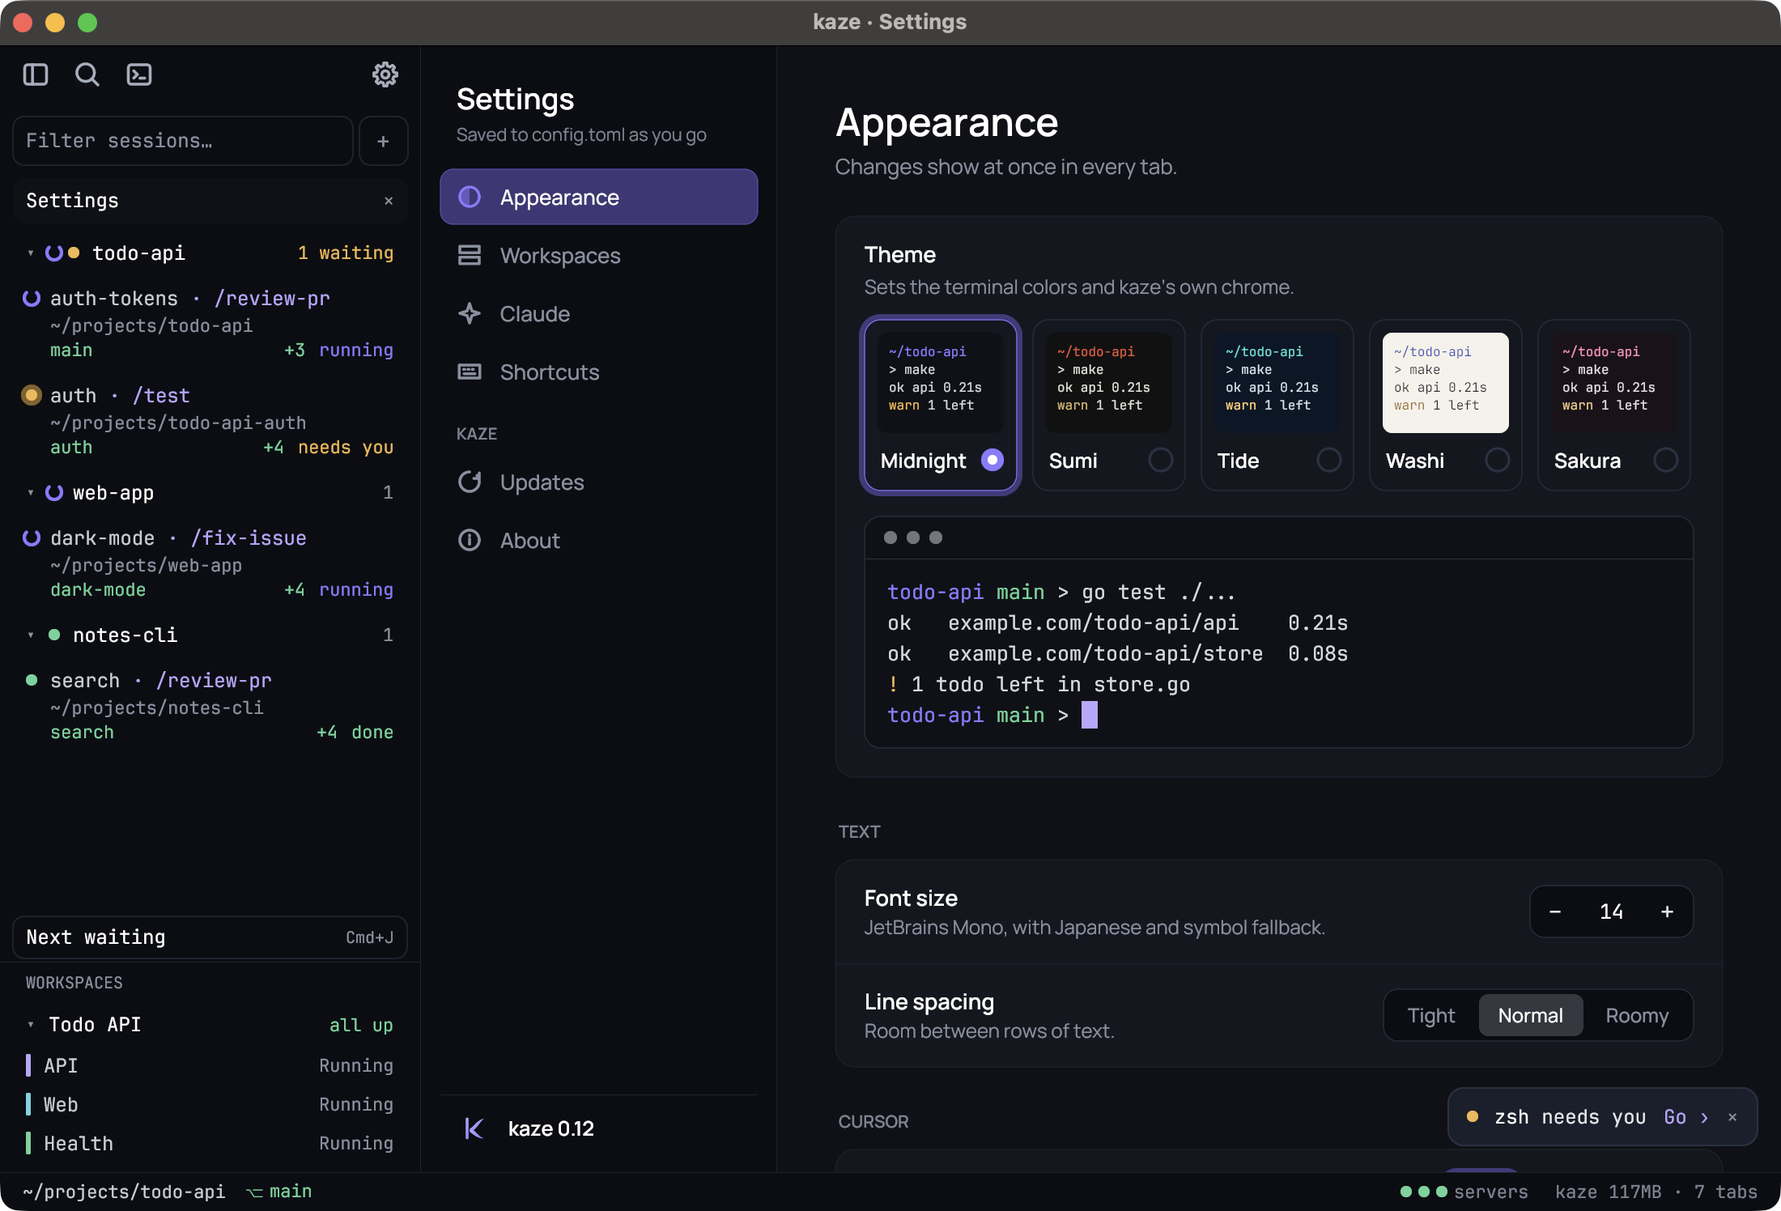
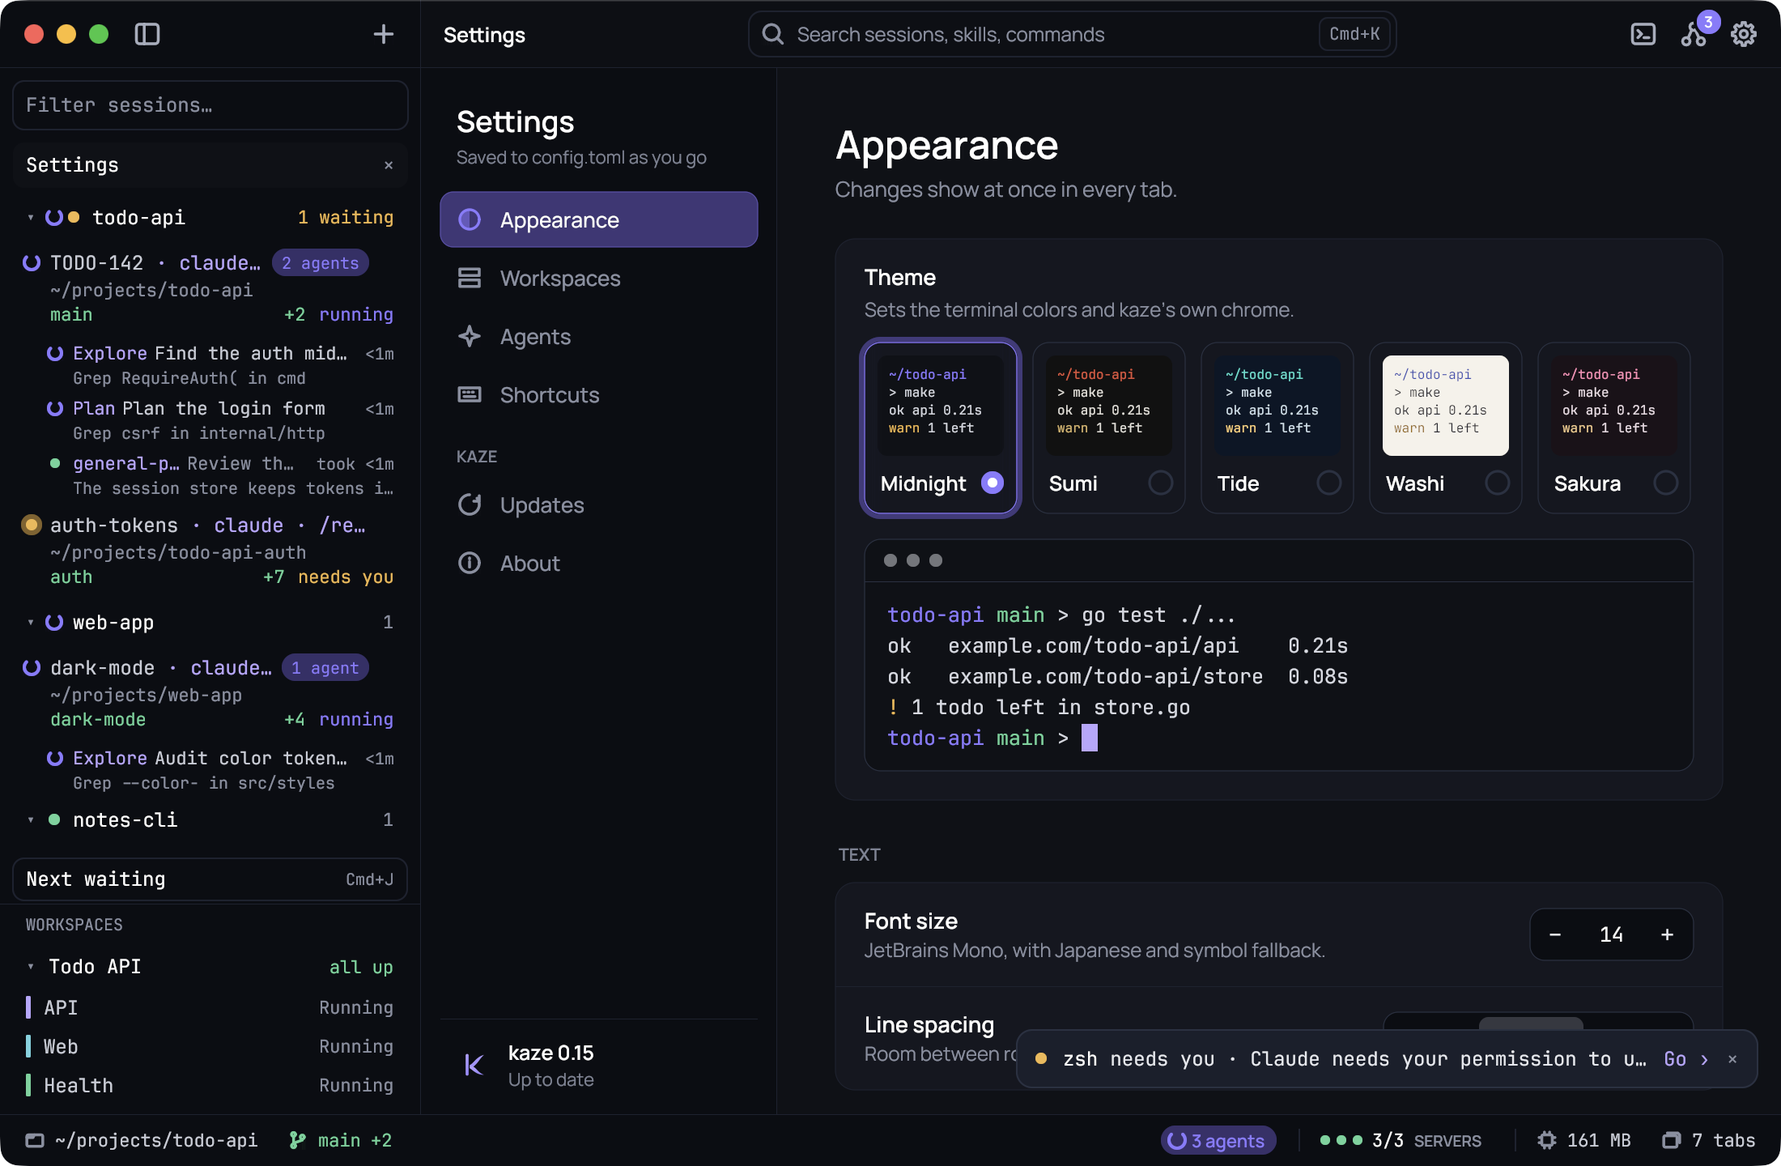
docs(site): Retake every capture with the new title bar and status bar

diff --git a/docs/site-assets/site.css b/docs/site-assets/site.css
@@ -1,7 +1,7 @@
 @font-face{font-family:Manrope;src:url(Manrope.ttf) format('truetype');font-weight:200 800;font-display:swap}
 @font-face{font-family:JetBrains;src:url(JetBrainsMono-Regular.ttf) format('truetype');font-display:swap}
 :root{color-scheme:dark;--bg:#0d0f14;--surface:#101014;--text:#f0eff4;--muted:#95949f;--line:#26262d;--accent:#c7b7f7}
-*{box-sizing:border-box}html{scroll-behavior:smooth;scroll-padding-top:90px}body{margin:0;background:var(--bg);color:var(--text);font:15px/1.7 Manrope,sans-serif}a{color:inherit;text-decoration:none}button{font:inherit;cursor:pointer}a,button{-webkit-tap-highlight-color:transparent}a:focus-visible,button:focus-visible{outline:2px solid var(--accent);outline-offset:5px}a:hover{color:#fff}.wrap{width:min(1160px,calc(100% - 64px));margin-inline:auto}.skip-link{position:fixed;z-index:10;top:8px;left:8px;padding:10px;background:var(--accent);color:#111;transform:translateY(-150%)}.skip-link:focus{transform:none}.site-header{border-bottom:1px solid var(--line)}.header-inner{height:76px;display:flex;align-items:center;justify-content:space-between}.brand{display:flex;gap:9px;align-items:center;font-size:25px;font-weight:650;letter-spacing:-1.6px}.brand img{display:block}.site-header .brand{flex-shrink:0}.brand-lockup{display:flex;flex-direction:column;gap:4px;line-height:1}.brand-byline{font:9px/1 JetBrains,monospace;font-weight:400;letter-spacing:.04em;color:var(--muted)}nav{display:flex;align-items:center;gap:32px;color:#b4b2bd;font-size:12px}.source-link{display:inline-flex;align-items:center;gap:8px;border:1px solid #34333e;border-radius:6px;padding:7px 13px}.github-icon{display:block;flex-shrink:0}.hero{text-align:center;padding-top:64px}.hero-logo{display:block;width:min(340px,70vw);height:auto;margin:0 auto 34px}h1,h2,h3,p{margin:0}h1{font-size:clamp(48px,6.1vw,82px);font-weight:550;line-height:1.1;letter-spacing:-4.5px}h1 span{color:#a2a0ad}.hero-copy{color:var(--muted);font-size:17px;line-height:1.8;margin:27px auto 30px;max-width:660px}.hero-actions{display:flex;justify-content:center;gap:12px}.button{display:inline-flex;align-items:center;justify-content:center;gap:24px;padding:12px 22px;border-radius:7px;font-size:13px;font-weight:650;transition:background .18s,border-color .18s}.primary{background:#e0d8f8;color:#17131f;border:1px solid #e0d8f8}.primary:hover{background:#eee8ff;color:#17131f}.secondary{background:#151419;border:1px solid #34323e;color:#d4d0de}.secondary:hover{background:#201e27;border-color:#575062}.platform-note{font-size:10px;color:#777481;margin-top:17px}.platform-note>span{margin:0 13px;color:#3f3c48}.platform-note a{text-decoration:underline;text-underline-offset:3px;color:#aaa4b7}.product{margin:64px 0 0;text-align:left}.product-caption{display:flex;justify-content:space-between;align-items:center;font-size:10px;color:#8e899b;margin:0 3px 12px}.product-caption span:first-child{color:#bdb7ca}.screenshot{aspect-ratio:2200/1496;overflow:hidden;background:#0f1117;border:1px solid #3b3945;border-radius:10px;box-shadow:0 20px 60px #0004}.screenshot img{width:100%;height:auto;display:block}figcaption{font-size:10px;color:#73707d;margin:13px 3px 0}h2{font-size:clamp(32px,3.6vw,47px);line-height:1.17;letter-spacing:-1.9px;font-weight:550}h2 span{color:#8d899a}.workspace-section{padding-top:125px}.section-intro{text-align:center}.section-intro p{color:var(--muted);font-size:14px;line-height:1.9;margin-top:22px}.workspace-example{margin-top:42px;border:1px solid var(--line);border-radius:10px;background:var(--surface);overflow:hidden}.example-heading{display:flex;justify-content:space-between;padding:18px 24px;border-bottom:1px solid var(--line);color:#d5d0df;font-size:12px}.mono{font-family:JetBrains,monospace;font-size:10px;color:#9890a7}.mono>span{color:#494252;margin:0 10px}.recipe{list-style:none;padding:0;margin:0}.recipe li{display:grid;grid-template-columns:32px 1fr 1.35fr 140px;gap:22px;align-items:center;padding:21px 24px;border-bottom:1px solid #212027}.recipe-index{font:10px JetBrains,monospace;color:#686171}.recipe h3{font-size:14px;font-weight:550}.folder{font:10px/1.8 JetBrains,monospace;color:#847c92}.recipe code{font:11px/1.7 JetBrains,monospace;color:#c2b4d8}.wait{font-size:10px;color:#8d849c}.example-foot{padding:16px 24px;color:#938b9f;font-size:11px}.details{display:grid;grid-template-columns:repeat(4,minmax(0,1fr));gap:0;padding:80px 0 90px}.details article{padding:0 30px;border-right:1px solid var(--line)}.details article:first-child{padding-left:0}.details article:last-child{border:0;padding-right:0}.feature-symbol{display:block;color:var(--accent);font-size:23px;margin-bottom:19px}.details h3{font-size:18px;letter-spacing:-.5px;font-weight:550;margin-bottom:13px}.details p{color:var(--muted);font-size:13px;line-height:1.9}.details a{display:inline-block;margin-top:21px;font-size:11px;color:#c4bad5}.engineering{display:flex;gap:60px;justify-content:space-between;border-top:1px solid var(--line);border-bottom:1px solid var(--line);padding-block:45px}.engineering h2{font-size:27px;letter-spacing:-.8px}.engineering p{font-size:13px;color:var(--muted);max-width:590px;margin-top:14px}.engineering-facts{display:flex;gap:35px;align-items:center;flex-shrink:0}.engineering-facts span{font-size:10px;color:#817a8b}.engineering-facts b{display:block;font-size:13px;color:#d1c8de;font-weight:550;margin-bottom:6px}.install{padding:110px 0;display:grid;grid-template-columns:1fr 1.25fr;gap:90px}.install-intro>p{font-size:13px;color:var(--muted);margin-top:23px;line-height:1.9;max-width:360px}.install-intro .release-note{font-size:11px;color:#81788f;margin-top:18px}.inline-link{display:inline-block;font-size:11px;color:#c5b5da;margin-top:18px}.installer{min-width:0;border:1px solid #302a3b;background:#101014;border-radius:9px;overflow:hidden;align-self:start}.platform-tabs{display:flex;border-bottom:1px solid var(--line);padding:0 20px;gap:25px}.platform-tabs button{background:none;border:0;border-bottom:2px solid transparent;color:#82788f;font-size:12px;padding:16px 2px}.platform-tabs button[aria-selected=true]{color:#ded4ec;border-bottom-color:var(--accent)}.command-heading{display:flex;justify-content:space-between;align-items:center;padding:20px 20px 4px;font-size:10px;color:#a89bb8}.command-heading button{font-size:9px;background:#1c1823;border:1px solid #38303f;color:#d3bde9;padding:4px 9px;border-radius:4px}.command-heading button:hover{background:#302638}pre{margin:0;padding:12px 20px 20px;overflow:auto;font:10px/1.9 JetBrains,monospace;color:#d0c3df}.clone-block{border-bottom:1px solid #25212d}.installer-tip{padding:0 20px 20px;font-size:10px;color:#90829f}kbd{font:10px JetBrains,monospace;border:1px solid #393140;border-radius:3px;padding:2px 5px;color:#c9b8d8}.build-docs{display:block;padding:14px 20px;border-top:1px solid var(--line);color:#a99ab8;font-size:10px}.build-docs span{float:right}footer{border-top:1px solid var(--line);display:flex;align-items:center;justify-content:space-between;padding:28px 0 35px}footer p{font-size:11px;color:#736c7e}footer>div{display:flex;gap:24px;color:#9e93ac;font-size:10px}footer .brand{font-size:22px}.sr-only{position:absolute;width:1px;height:1px;overflow:hidden;clip-path:inset(50%)}[hidden]{display:none!important}
+*{box-sizing:border-box}html{scroll-behavior:smooth;scroll-padding-top:90px}body{margin:0;background:var(--bg);color:var(--text);font:15px/1.7 Manrope,sans-serif}a{color:inherit;text-decoration:none}button{font:inherit;cursor:pointer}a,button{-webkit-tap-highlight-color:transparent}a:focus-visible,button:focus-visible{outline:2px solid var(--accent);outline-offset:5px}a:hover{color:#fff}.wrap{width:min(1160px,calc(100% - 64px));margin-inline:auto}.skip-link{position:fixed;z-index:10;top:8px;left:8px;padding:10px;background:var(--accent);color:#111;transform:translateY(-150%)}.skip-link:focus{transform:none}.site-header{border-bottom:1px solid var(--line)}.header-inner{height:76px;display:flex;align-items:center;justify-content:space-between}.brand{display:flex;gap:9px;align-items:center;font-size:25px;font-weight:650;letter-spacing:-1.6px}.brand img{display:block}.site-header .brand{flex-shrink:0}.brand-lockup{display:flex;flex-direction:column;gap:4px;line-height:1}.brand-byline{font:9px/1 JetBrains,monospace;font-weight:400;letter-spacing:.04em;color:var(--muted)}nav{display:flex;align-items:center;gap:32px;color:#b4b2bd;font-size:12px}.source-link{display:inline-flex;align-items:center;gap:8px;border:1px solid #34333e;border-radius:6px;padding:7px 13px}.github-icon{display:block;flex-shrink:0}.hero{text-align:center;padding-top:64px}.hero-logo{display:block;width:min(340px,70vw);height:auto;margin:0 auto 34px}h1,h2,h3,p{margin:0}h1{font-size:clamp(48px,6.1vw,82px);font-weight:550;line-height:1.1;letter-spacing:-4.5px}h1 span{color:#a2a0ad}.hero-copy{color:var(--muted);font-size:17px;line-height:1.8;margin:27px auto 30px;max-width:660px}.hero-actions{display:flex;justify-content:center;gap:12px}.button{display:inline-flex;align-items:center;justify-content:center;gap:24px;padding:12px 22px;border-radius:7px;font-size:13px;font-weight:650;transition:background .18s,border-color .18s}.primary{background:#e0d8f8;color:#17131f;border:1px solid #e0d8f8}.primary:hover{background:#eee8ff;color:#17131f}.secondary{background:#151419;border:1px solid #34323e;color:#d4d0de}.secondary:hover{background:#201e27;border-color:#575062}.platform-note{font-size:10px;color:#777481;margin-top:17px}.platform-note>span{margin:0 13px;color:#3f3c48}.platform-note a{text-decoration:underline;text-underline-offset:3px;color:#aaa4b7}.product{margin:64px 0 0;text-align:left}.product-caption{display:flex;justify-content:space-between;align-items:center;font-size:10px;color:#8e899b;margin:0 3px 12px}.product-caption span:first-child{color:#bdb7ca}.screenshot{aspect-ratio:2200/1440;overflow:hidden;background:#0f1117;border:1px solid #3b3945;border-radius:10px;box-shadow:0 20px 60px #0004}.screenshot img{width:100%;height:auto;display:block}figcaption{font-size:10px;color:#73707d;margin:13px 3px 0}h2{font-size:clamp(32px,3.6vw,47px);line-height:1.17;letter-spacing:-1.9px;font-weight:550}h2 span{color:#8d899a}.workspace-section{padding-top:125px}.section-intro{text-align:center}.section-intro p{color:var(--muted);font-size:14px;line-height:1.9;margin-top:22px}.workspace-example{margin-top:42px;border:1px solid var(--line);border-radius:10px;background:var(--surface);overflow:hidden}.example-heading{display:flex;justify-content:space-between;padding:18px 24px;border-bottom:1px solid var(--line);color:#d5d0df;font-size:12px}.mono{font-family:JetBrains,monospace;font-size:10px;color:#9890a7}.mono>span{color:#494252;margin:0 10px}.recipe{list-style:none;padding:0;margin:0}.recipe li{display:grid;grid-template-columns:32px 1fr 1.35fr 140px;gap:22px;align-items:center;padding:21px 24px;border-bottom:1px solid #212027}.recipe-index{font:10px JetBrains,monospace;color:#686171}.recipe h3{font-size:14px;font-weight:550}.folder{font:10px/1.8 JetBrains,monospace;color:#847c92}.recipe code{font:11px/1.7 JetBrains,monospace;color:#c2b4d8}.wait{font-size:10px;color:#8d849c}.example-foot{padding:16px 24px;color:#938b9f;font-size:11px}.details{display:grid;grid-template-columns:repeat(4,minmax(0,1fr));gap:0;padding:80px 0 90px}.details article{padding:0 30px;border-right:1px solid var(--line)}.details article:first-child{padding-left:0}.details article:last-child{border:0;padding-right:0}.feature-symbol{display:block;color:var(--accent);font-size:23px;margin-bottom:19px}.details h3{font-size:18px;letter-spacing:-.5px;font-weight:550;margin-bottom:13px}.details p{color:var(--muted);font-size:13px;line-height:1.9}.details a{display:inline-block;margin-top:21px;font-size:11px;color:#c4bad5}.engineering{display:flex;gap:60px;justify-content:space-between;border-top:1px solid var(--line);border-bottom:1px solid var(--line);padding-block:45px}.engineering h2{font-size:27px;letter-spacing:-.8px}.engineering p{font-size:13px;color:var(--muted);max-width:590px;margin-top:14px}.engineering-facts{display:flex;gap:35px;align-items:center;flex-shrink:0}.engineering-facts span{font-size:10px;color:#817a8b}.engineering-facts b{display:block;font-size:13px;color:#d1c8de;font-weight:550;margin-bottom:6px}.install{padding:110px 0;display:grid;grid-template-columns:1fr 1.25fr;gap:90px}.install-intro>p{font-size:13px;color:var(--muted);margin-top:23px;line-height:1.9;max-width:360px}.install-intro .release-note{font-size:11px;color:#81788f;margin-top:18px}.inline-link{display:inline-block;font-size:11px;color:#c5b5da;margin-top:18px}.installer{min-width:0;border:1px solid #302a3b;background:#101014;border-radius:9px;overflow:hidden;align-self:start}.platform-tabs{display:flex;border-bottom:1px solid var(--line);padding:0 20px;gap:25px}.platform-tabs button{background:none;border:0;border-bottom:2px solid transparent;color:#82788f;font-size:12px;padding:16px 2px}.platform-tabs button[aria-selected=true]{color:#ded4ec;border-bottom-color:var(--accent)}.command-heading{display:flex;justify-content:space-between;align-items:center;padding:20px 20px 4px;font-size:10px;color:#a89bb8}.command-heading button{font-size:9px;background:#1c1823;border:1px solid #38303f;color:#d3bde9;padding:4px 9px;border-radius:4px}.command-heading button:hover{background:#302638}pre{margin:0;padding:12px 20px 20px;overflow:auto;font:10px/1.9 JetBrains,monospace;color:#d0c3df}.clone-block{border-bottom:1px solid #25212d}.installer-tip{padding:0 20px 20px;font-size:10px;color:#90829f}kbd{font:10px JetBrains,monospace;border:1px solid #393140;border-radius:3px;padding:2px 5px;color:#c9b8d8}.build-docs{display:block;padding:14px 20px;border-top:1px solid var(--line);color:#a99ab8;font-size:10px}.build-docs span{float:right}footer{border-top:1px solid var(--line);display:flex;align-items:center;justify-content:space-between;padding:28px 0 35px}footer p{font-size:11px;color:#736c7e}footer>div{display:flex;gap:24px;color:#9e93ac;font-size:10px}footer .brand{font-size:22px}.sr-only{position:absolute;width:1px;height:1px;overflow:hidden;clip-path:inset(50%)}[hidden]{display:none!important}
 @media(min-width:1500px){.hero{padding-top:110px}}
 @media(max-width:1000px){.engineering{display:block}.engineering-facts{margin-top:28px}.install{gap:40px}.recipe li{gap:14px;grid-template-columns:25px 1fr 1.3fr 120px}.details{grid-template-columns:repeat(2,minmax(0,1fr));row-gap:40px}.details article{padding-inline:20px}.details article:nth-child(odd){padding-left:0}.details article:nth-child(2n){border:0;padding-right:0}h1{letter-spacing:-3px}}
 @media(max-width:680px){.wrap{width:calc(100% - 36px)}.header-inner{height:67px}.brand{font-size:23px}nav{gap:20px;font-size:11px}nav>a:first-child{display:none}.source-link{padding:5px 10px}.hero{padding-top:62px}h1{font-size:clamp(40px,8.7vw,58px);letter-spacing:-2.3px;line-height:1.13}.hero-copy{font-size:14px;margin-top:22px;max-width:440px}.desktop-break{display:none}.button{padding:11px 15px;font-size:11px;gap:14px}.hero-actions{gap:9px}.platform-note{font-size:9px}.platform-note>span{margin-inline:9px}.product{margin-top:44px}.product-caption{font-size:8px}.screenshot{border-radius:5px}figcaption{font-size:9px}.workspace-section{padding-top:75px}h2{font-size:34px;letter-spacing:-1.4px}.section-intro p{font-size:12px}.workspace-example{margin-top:30px}.example-heading{padding:15px;font-size:10px}.example-heading .mono{font-size:9px}.recipe li{grid-template-columns:20px 1fr;gap:5px 12px;padding:17px 15px}.recipe-index{grid-row:span 3;align-self:start;padding-top:5px}.recipe code,.recipe .wait{grid-column:2}.recipe code{font-size:10px;margin-top:6px}.wait{font-size:9px}.recipe h3{font-size:13px}.folder{font-size:9px}.example-foot{padding:15px;font-size:10px}.details{display:block;padding:25px 0 45px}.details article,.details article:first-child,.details article:last-child{padding:28px 0;border:0;border-bottom:1px solid var(--line)}.details article:last-child{border:0}.feature-symbol{margin-bottom:10px}.details h3{font-size:19px}.details p{font-size:13px}.engineering{padding-block:32px}.engineering h2{font-size:25px}.engineering-facts{gap:30px}.install{grid-template-columns:minmax(0,1fr);padding:65px 0;gap:32px}.install-intro>p{max-width:100%}.install h2{font-size:37px}.install-intro .release-note{font-size:11px}footer{flex-wrap:wrap;gap:20px}footer p{display:none}pre{font-size:9px;padding-inline:15px}.command-heading{padding-inline:15px}}

diff --git a/docs/index.html b/docs/index.html
@@ -26,8 +26,8 @@
     <p class="platform-note">Free and open source<span aria-hidden="true">/</span><b id="download-count" hidden></b><span id="download-sep" aria-hidden="true" hidden>/</span><a href="#first-launch">How to install</a><span aria-hidden="true">/</span><a href="https://github.com/patrick-gogo/kaze-terminal">View source</a></p>
     <figure class="product" id="product">
       <div class="product-caption"><div class="capture-switcher" role="group" aria-label="Product screenshots"><button type="button" data-shot="sessions" aria-pressed="true">Sessions</button><button type="button" data-shot="agents" aria-pressed="false">Subagents</button><button type="button" data-shot="board" aria-pressed="false">Agents board</button><button type="button" data-shot="palette" aria-pressed="false">Palette</button><button type="button" data-shot="scratch" aria-pressed="false">Scratch shell</button><button type="button" data-shot="workspaces" aria-pressed="false">Workspaces</button><button type="button" data-shot="settings" aria-pressed="false">Settings</button><button type="button" data-shot="about" aria-pressed="false">About</button></div><span id="capture-description" aria-live="polite">The session sidebar with a server floating over a session</span></div>
-      <div class="screenshot"><img id="product-shot" src="site-assets/kaze-sessions.png" alt="Kaze on macOS: a sidebar of sessions marked needs you, running and done, with an API server's log floating over the todo-api session" width="2200" height="1496" fetchpriority="high"></div>
-      <figcaption>Captured from Kaze 0.12 on macOS, with demo projects and real local command output. <a class="caption-link" href="https://github.com/patrick-gogo/kaze-terminal/blob/main/docs/site-assets/SCREENSHOTS.md">How these were taken</a></figcaption>
+      <div class="screenshot"><img id="product-shot" src="site-assets/kaze-sessions.png" alt="Kaze on macOS: a sidebar of sessions marked needs you, running and done, with an API server's log floating over the todo-api session" width="2200" height="1440" fetchpriority="high"></div>
+      <figcaption>Captured from Kaze 0.15 on macOS, with demo projects and real local command output. <a class="caption-link" href="https://github.com/patrick-gogo/kaze-terminal/blob/main/docs/site-assets/SCREENSHOTS.md">How these were taken</a></figcaption>
     </figure>
   </section>
 

diff --git a/docs/site-assets/site.js b/docs/site-assets/site.js
@@ -45,7 +45,7 @@ const captures = {
   scratch: { alt: 'A scratch shell floating over the todo-api session, showing git status and git diff', caption: 'A scratch shell in the session\'s folder' },
   workspaces: { alt: 'The Kaze Workspaces settings page with a card for the running three-member Todo API demo workspace', caption: 'The workspace card with API, Web and Health running' },
   settings: { alt: 'Kaze Appearance settings with five theme cards, Midnight selected, and a live terminal preview', caption: 'Appearance settings with theme cards and a live preview' },
-  about: { alt: 'The Kaze About page showing the logo, version 0.12 and platform, chip and license details', caption: 'About Kaze 0.12 on macOS' }
+  about: { alt: 'The Kaze About page showing the logo, version 0.15 and platform, chip and license details', caption: 'About Kaze 0.15 on macOS' }
 };
 function showShot(shot) {
   const image = document.getElementById('product-shot');

diff --git a/docs/site-assets/SCREENSHOTS.md b/docs/site-assets/SCREENSHOTS.md
@@ -1,8 +1,7 @@
 # Product captures
 
-> **Needs retaking:** since the window chrome redesign (Kaze 0.15), every capture below shows the old title bar and status bar. Retake them all with the same demo home and input-blocked overlay.
 
-Native macOS window captures (2200 × 1496 px, Retina) taken October 31, 2026, from Kaze 0.12 (main build 044336a).
+Native macOS window captures (2200 × 1440 px, Retina) retaken November 1, 2026, from Kaze 0.15 with the redesigned title bar and status bar. Kaze draws its own title bar now, so the captures have no system title bar above it.
 
 - `kaze-sessions.png`: the session sidebar with three demo repos (one a git worktree), the "Todo API"
   workspace running, and its API member floating over the `todo-api` session.
@@ -12,7 +11,7 @@ Native macOS window captures (2200 × 1496 px, Retina) taken October 31, 2026, f
   `git diff --stat`.
 - `kaze-workspaces.png`: the redesigned Workspaces section of Settings with the Todo API workspace card
   and its API, Web and Health members running.
-- `kaze-about.png`: the redesigned About section displaying the shipped logo and byline, version 0.12,
+- `kaze-about.png`: the redesigned About section displaying the shipped logo and byline, version 0.15,
   platform, chip and license facts.
 - `kaze-settings.png`: Appearance settings with five theme cards, Midnight selected, and the live
   terminal preview.
